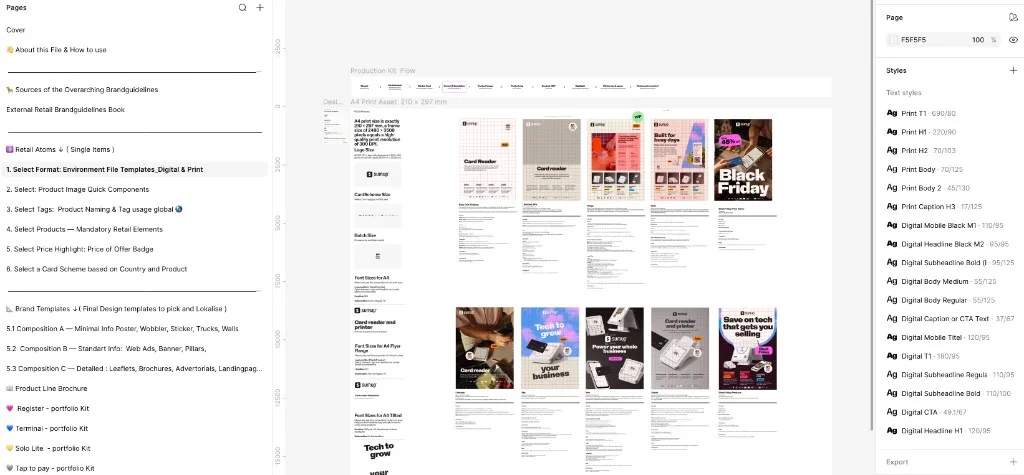
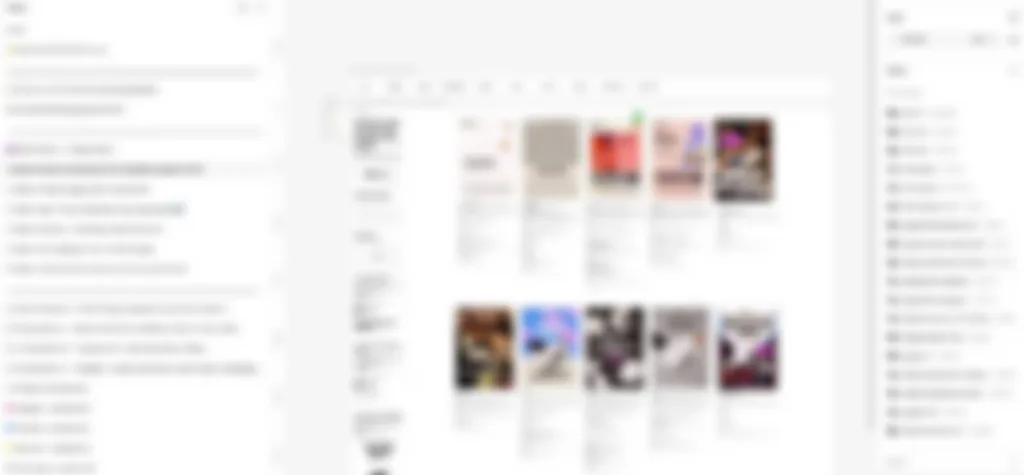
Ship SumUp collage polish with soft-blurred guidelines after the kit.

diff --git a/src/pages/DesktopCaseView.jsx b/src/pages/DesktopCaseView.jsx
@@ -17,7 +17,7 @@ const DesktopCaseView = ({ caseItem }) => {
   const [imageTitleColors, setImageTitleColors] = useState({});
   const IMAGE_WIDTHS = { landscape: 420, portrait: 280, square: 360 };
   const IMAGE_HEIGHTS = { landscape: 294, portrait: 400, square: 360 }; // 10:7 / 7:10 / 1:1
-  const MAX_IMAGE_WIDTH = 420;
+  const MAX_IMAGE_WIDTH = 500; // room for slightly larger video tiles
   const [viewportSize, setViewportSize] = useState({ width: window.innerWidth, height: window.innerHeight });
 
   const toggleScale = (imageId) => {
@@ -49,20 +49,36 @@ const DesktopCaseView = ({ caseItem }) => {
     };
   }, [isDesktop]);
 
+  // Canonical media order (for titles) — videos last
+  const canonicalMedia = useMemo(() => ([
+    caseItem.introImage,
+    caseItem.hideDesktopHero ? null : caseItem.image,
+    caseItem.detailImage1, caseItem.detailImage2, caseItem.detailImage3,
+    caseItem.detailImage4, caseItem.detailImage5, caseItem.detailImage6,
+    caseItem.detailImage7, caseItem.detailImage8, caseItem.detailImage9,
+    caseItem.detailImage10, caseItem.detailImage11, caseItem.detailImage12,
+    caseItem.detailImage13, caseItem.detailImage14, caseItem.detailImage15,
+    caseItem.detailImage16, caseItem.detailImage17, caseItem.detailImage18,
+    caseItem.detailImage19, caseItem.detailImage20,
+    caseItem.detailVideo1, caseItem.detailVideo2
+  ].filter(Boolean)), [caseItem]);
+
+  // Collage order — optional early video so it isn't buried under later cards
   const allImages = useMemo(() => {
-    return [
-      caseItem.introImage,
-      caseItem.hideDesktopHero ? null : caseItem.image,
-      caseItem.detailImage1, caseItem.detailImage2, caseItem.detailImage3,
-      caseItem.detailImage4, caseItem.detailImage5, caseItem.detailImage6,
-      caseItem.detailImage7, caseItem.detailImage8, caseItem.detailImage9,
-      caseItem.detailImage10, caseItem.detailImage11, caseItem.detailImage12,
-      caseItem.detailImage13, caseItem.detailImage14, caseItem.detailImage15,
-      caseItem.detailImage16, caseItem.detailImage17, caseItem.detailImage18,
-      caseItem.detailImage19, caseItem.detailImage20,
-      caseItem.detailVideo1, caseItem.detailVideo2
-    ].filter(Boolean);
-  }, [caseItem]);
+    if (!caseItem.desktopVideoEarly || !caseItem.detailVideo1) return canonicalMedia;
+    const stills = canonicalMedia.filter((url) => !/\.(mp4|mov|webm)$/i.test(url));
+    const videos = canonicalMedia.filter((url) => /\.(mp4|mov|webm)$/i.test(url));
+    if (!stills.length || !videos.length) return canonicalMedia;
+    return [stills[0], videos[0], ...stills.slice(1), ...videos.slice(1)];
+  }, [caseItem.desktopVideoEarly, caseItem.detailVideo1, canonicalMedia]);
+
+  const titleByUrl = useMemo(() => {
+    const map = {};
+    canonicalMedia.forEach((url, i) => {
+      if (caseItem.imageTitles?.[i]) map[url] = caseItem.imageTitles[i];
+    });
+    return map;
+  }, [canonicalMedia, caseItem.imageTitles]);
 
   const grid = useMemo(() => {
     const containerWidth = Math.min(1800, viewportSize.width - 96);
@@ -74,48 +90,45 @@ const DesktopCaseView = ({ caseItem }) => {
   const colX = (col) => grid.containerLeft + grid.colWidth * (col - 1);
 
   const layoutConfig = useMemo(() => {
-    const startY = 180;
-    // Keep the collage clustered toward centre on typical desktop widths (e.g. 1440)
-    const cols = allImages.length <= 4 ? [3, 5, 7] : [2, 5, 8];
-    const yOffsets = allImages.length <= 4 ? [-10, -40, 20] : [-20, -120, 100];
+    const startY = 150;
+    const many = allImages.length > 4;
+    // Balanced triad — overlap without extreme scatter
+    const cols = many ? [2, 5.25, 8.5] : [3, 5.5, 8];
+    const yOffsets = many ? [24, -40, 48] : [12, -28, 32];
     const imageRows = Math.ceil(allImages.length / 3);
-    const rowGap = imageRows <= 1 ? 460 : imageRows === 2 ? 540 : 620;
-    return { startY, cols, yOffsets, rowGap };
+    // Extra air between rows so text cards stay readable
+    const rowGap = imageRows <= 1 ? 520 : imageRows === 2 ? 640 : 720;
+    return { startY, cols, yOffsets, rowGap, imageRows };
   }, [allImages.length]);
 
-  // Cards in front, lightly overlapping (~10% of image height) near the collage centre
   const CARD_WIDTH = 340;
   const APPROX_IMAGE_H = 360;
-  const OVERLAP = 0.1;
 
   const getRowCardY = (row) => {
-    const { startY, rowGap, yOffsets } = layoutConfig;
-    const rowBase = startY + row * rowGap;
-    const imageBottom = rowBase + Math.max(...yOffsets) + APPROX_IMAGE_H;
-    return imageBottom - APPROX_IMAGE_H * OVERLAP;
+    const { startY, rowGap } = layoutConfig;
+    // Sit in the lower band of each image row — overlapping, still legible
+    return startY + row * rowGap + APPROX_IMAGE_H * 0.52;
   };
 
-  // 1. TEXT CARDS — centred in the composition (not pinned to far edges)
+  // 1. TEXT CARDS — paired over image rows; trailing copy sits just under the last row
   const cardPositions = useMemo(() => {
-    const leftX = colX(allImages.length <= 4 ? 3 : 2);
-    const rightX = colX(allImages.length <= 4 ? 7 : 8);
+    const many = allImages.length > 4;
+    const leftX = colX(many ? 3.1 : 3.4);
+    const rightX = colX(many ? 7.1 : 6.8);
     const maxX = grid.containerLeft + grid.containerWidth - CARD_WIDTH;
     const clampX = (x) => Math.max(grid.containerLeft, Math.min(x, maxX));
-
-    const zigzagOffset = (row, side) => {
-      const base = row % 2 === 0 ? 0 : 24;
-      const sideNudge = side === 'left' ? 0 : 28;
-      return base + sideNudge;
-    };
+    const lastRow = Math.max(0, layoutConfig.imageRows - 1);
+    const nudge = (row, side) => (side === 'left' ? -8 : 12) + (row % 2) * 14;
 
     return {
-      projectInfo: { x: clampX(leftX), y: getRowCardY(0) + zigzagOffset(0, 'left') },
-      challenge:   { x: clampX(rightX), y: getRowCardY(0) + zigzagOffset(0, 'right') },
-      process:     { x: clampX(leftX), y: getRowCardY(1) + zigzagOffset(1, 'left') },
-      impact:      { x: clampX(rightX), y: getRowCardY(1) + zigzagOffset(1, 'right') },
-      outcome:     { x: clampX(leftX), y: getRowCardY(2) + zigzagOffset(2, 'left') },
-      learning:    { x: clampX(rightX), y: getRowCardY(2) + zigzagOffset(2, 'right') },
-      offer:       { x: clampX(leftX), y: getRowCardY(3) + zigzagOffset(3, 'left') }
+      projectInfo: { x: clampX(leftX), y: getRowCardY(0) + nudge(0, 'left') },
+      challenge:   { x: clampX(rightX), y: getRowCardY(0) + nudge(0, 'right') },
+      process:     { x: clampX(leftX), y: getRowCardY(Math.min(1, lastRow)) + nudge(1, 'left') },
+      impact:      { x: clampX(rightX), y: getRowCardY(Math.min(1, lastRow)) + nudge(1, 'right') },
+      // Learning / outcome sit clearly below the last media row so they aren't buried
+      outcome:     { x: clampX(leftX), y: getRowCardY(lastRow) + 260 + nudge(2, 'left') },
+      learning:    { x: clampX(rightX), y: getRowCardY(lastRow) + 260 + nudge(2, 'right') },
+      offer:       { x: clampX(leftX), y: getRowCardY(lastRow) + 480 + nudge(3, 'left') }
     };
   }, [grid, layoutConfig, allImages.length]);
 
@@ -134,7 +147,7 @@ const DesktopCaseView = ({ caseItem }) => {
   const usesContain = (url) =>
     Boolean(url && caseItem.containImages?.includes(url));
 
-  // 2. BILDER-POSITIONEN
+  // 2. IMAGE POSITIONS — soft staircase; odd rows gently mirrored for balance
   const initialPositions = useMemo(() => {
     const imageCount = allImages.length;
     const positions = [];
@@ -143,16 +156,16 @@ const DesktopCaseView = ({ caseItem }) => {
     for (let i = 0; i < imageCount; i++) {
       const row = Math.floor(i / 3);
       const slot = i % 3;
-      const overlapY = slot === 1 ? -40 : slot === 2 ? -10 : 0;
-      const rawX = colX(cols[slot]);
-      const rawY = startY + row * rowGap + yOffsets[slot] + overlapY;
+      const mirrored = row % 2 === 1;
+      const colSlot = mirrored ? 2 - slot : slot;
+      const yScale = mirrored ? -0.55 : 1;
+      const overlapY = colSlot === 1 ? -20 : colSlot === 2 ? 12 : 0;
+      const rawX = colX(cols[colSlot]);
+      const rawY = startY + row * rowGap + yOffsets[colSlot] * yScale + overlapY;
       const maxX = grid.containerLeft + grid.containerWidth - MAX_IMAGE_WIDTH;
       const clampedX = Math.max(grid.containerLeft, Math.min(rawX, maxX));
       const clampedY = Math.max(60, rawY);
-      positions.push({
-        x: clampedX,
-        y: clampedY
-      });
+      positions.push({ x: clampedX, y: clampedY });
     }
     return positions;
   }, [allImages, colX, layoutConfig, grid]);
@@ -176,7 +189,7 @@ const DesktopCaseView = ({ caseItem }) => {
       cardPositions.learning.y,
       cardPositions.offer.y
     );
-    return Math.max(imageLastY + 900, cardLastY + 800, viewportSize.height + 400);
+    return Math.max(imageLastY + 1100, cardLastY + 900, viewportSize.height + 400);
   }, [initialPositions, cardPositions, outcomePosition, viewportSize.height]);
 
   useEffect(() => {
@@ -228,18 +241,26 @@ const DesktopCaseView = ({ caseItem }) => {
   }, [allImages, caseItem.forceSquareImages, caseItem.darkImages, caseItem.lightTitleImages]);
 
   const getImageSize = (index, format) => {
+    const url = allImages[index] || '';
+    const isVideo = /\.(mp4|mov|webm)$/i.test(url);
     const ratio = imageAspects[index];
     if (ratio) {
-      const width = ratio >= 1 ? IMAGE_WIDTHS.landscape : IMAGE_WIDTHS.portrait;
+      const base = ratio >= 1 ? IMAGE_WIDTHS.landscape : IMAGE_WIDTHS.portrait;
+      // Slightly larger video so it doesn't disappear in the collage
+      const width = isVideo ? Math.round(base * 1.18) : base;
       return { width, height: Math.round(width / ratio) };
     }
+    const width = isVideo
+      ? Math.round((IMAGE_WIDTHS[format] || IMAGE_WIDTHS.landscape) * 1.18)
+      : (IMAGE_WIDTHS[format] || IMAGE_WIDTHS.landscape);
     return {
-      width: IMAGE_WIDTHS[format] || IMAGE_WIDTHS.landscape,
+      width,
       height: IMAGE_HEIGHTS[format] || IMAGE_HEIGHTS.landscape,
     };
   };
 
   const getImageTitle = (url, index) => {
+    if (titleByUrl[url]) return titleByUrl[url];
     if (caseItem.imageTitles?.[index]) return caseItem.imageTitles[index];
     const filename = url.split('/').pop()?.split('.')[0] || '';
     return filename.replace(/[-_]/g, ' ').toUpperCase();
@@ -281,7 +302,7 @@ const DesktopCaseView = ({ caseItem }) => {
                 onClick={() => toggleScale(mediaId)}
                 className="absolute z-10 group cursor-grab active:cursor-grabbing"
                 style={{ width: `${mediaWidth}px` }} 
-                animate={{ scale: isScaled ? 1.8 : 1, zIndex: isScaled ? 100 : 10 }}
+                animate={{ scale: isScaled ? 1.8 : 1, zIndex: isScaled ? 100 : 10 + index }}
                 transition={{ type: "spring", stiffness: 300, damping: 30 }}
               >
                 <div className="relative w-full shadow-2xl overflow-hidden bg-black/5">

diff --git a/src/pages/MobileCaseView.jsx b/src/pages/MobileCaseView.jsx
@@ -336,14 +336,14 @@ const MobileCaseView = ({ caseItem }) => {
               {renderMedia(caseItem.detailImage1, "Hierarchy", "")}
             </FadeUp>
           )}
-          {caseItem.mobileVideoFirst && caseItem.detailImage3 && (
-            <FadeUp className="space-y-[0.1875rem] snap-start">
-              {renderMedia(caseItem.detailImage3, "Leaflet", "")}
-            </FadeUp>
-          )}
           {caseItem.mobileVideoFirst && caseItem.detailImage4 && (
             <FadeUp className="space-y-[0.1875rem] snap-start">
-              {renderMedia(caseItem.detailImage4, "Product Range Packaging Differentiation", "")}
+              {renderMedia(caseItem.detailImage4, "Leaflet", "")}
+            </FadeUp>
+          )}
+          {caseItem.mobileVideoFirst && caseItem.detailImage5 && (
+            <FadeUp className="space-y-[0.1875rem] snap-start">
+              {renderMedia(caseItem.detailImage5, "Product Range Packaging Differentiation", "")}
             </FadeUp>
           )}
 
@@ -394,10 +394,15 @@ const MobileCaseView = ({ caseItem }) => {
             </FadeUp>
           )}
 
-          {/* SumUp: guidelines after Approach; retail system follows later (detailImage5) */}
+          {/* SumUp: Production Kit → Brand guidelines after Approach */}
           {caseItem.mobileVideoFirst && caseItem.detailImage2 && (
             <FadeUp className="space-y-[0.1875rem] snap-start">
-              {renderMedia(caseItem.detailImage2, "Guidelines", "")}
+              {renderMedia(caseItem.detailImage2, "Production Kit", "")}
+            </FadeUp>
+          )}
+          {caseItem.mobileVideoFirst && caseItem.detailImage3 && (
+            <FadeUp className="space-y-[0.1875rem] snap-start">
+              {renderMedia(caseItem.detailImage3, "Brand guidelines", "")}
             </FadeUp>
           )}
 
@@ -431,9 +436,16 @@ const MobileCaseView = ({ caseItem }) => {
               {renderMedia(caseItem.detailImage4, "Process Detail", "")}
             </FadeUp>
           )}
-          {caseItem.detailImage5 && caseItem.id !== 6 && (
+          {caseItem.detailImage5 && caseItem.id !== 6 && !caseItem.mobileVideoFirst && (
             <FadeUp className="space-y-[0.1875rem] snap-start">
               {renderMedia(caseItem.detailImage5, "Detail", "")}
+            </FadeUp>
+          )}
+
+          {/* SumUp: digital brand pages overview after Impact */}
+          {caseItem.mobileVideoFirst && caseItem.detailImage6 && (
+            <FadeUp className="space-y-[0.1875rem] snap-start">
+              {renderMedia(caseItem.detailImage6, "Digital brand pages — overview", "")}
             </FadeUp>
           )}
 
@@ -468,7 +480,7 @@ const MobileCaseView = ({ caseItem }) => {
               {renderMedia(caseItem.detailImage2, "Final Outcome", "shadow-lg")}
             </FadeUp>
           )}
-          {caseItem.id !== 6 && caseItem.id !== 3 && caseItem.detailImage6 && (
+          {caseItem.id !== 6 && caseItem.id !== 3 && caseItem.detailImage6 && !caseItem.mobileVideoFirst && (
             <FadeUp className="space-y-[0.1875rem] snap-start">
               {renderMedia(caseItem.detailImage6, "Final Outcome", "shadow-lg")}
             </FadeUp>

diff --git a/src/data/cases.js b/src/data/cases.js
@@ -15,20 +15,23 @@ export const cases = [
     learning: "A first drop should lock the language, not freeze the brand.",
     image: "/images/02_sumup-retail-rebrand/sumup-teaser-register.webp",
     mobileImage: "/images/02_sumup-retail-rebrand/sumup-teaser-register.webp",
-    // Mobile after teaser: video → challenge → hierarchy → leaflet → packaging → approach → guidelines → system
+    // Mobile: video → challenge → hierarchy → leaflet → range → approach → kit → brand guidelines → digital pages overview
     detailImage1: "/images/02_sumup-retail-rebrand/sumup-colour-hierarchy-blurred.webp",
     detailImage2: "/images/02_sumup-retail-rebrand/sumup-retail-brand-guidelines.webp",
-    detailImage3: "/images/02_sumup-retail-rebrand/sumup-register-leaflet.webp",
-    detailImage4: "/images/02_sumup-retail-rebrand/sumup-range.webp",
-    detailImage5: "/images/02_sumup-retail-rebrand/sumup-digital-retail-system.webp",
+    detailImage3: "/images/02_sumup-retail-rebrand/sumup-brand-guidelines.webp",
+    detailImage4: "/images/02_sumup-retail-rebrand/sumup-register-leaflet.webp",
+    detailImage5: "/images/02_sumup-retail-rebrand/sumup-range.webp",
+    detailImage6: "/images/02_sumup-retail-rebrand/sumup-digital-retail-system.webp",
     detailVideo1: "/images/02_sumup-retail-rebrand/sumup-amazon-storefront-loop.mp4",
     detailVideo1Poster: "/images/02_sumup-retail-rebrand/sumup-amazon-storefront-poster.webp",
     // Teaser Register is header/slider only — not repeated in desktop collage
     hideDesktopHero: true,
     mobileVideoFirst: true,
+    desktopVideoEarly: true,
     lightTitleImages: [
       "/images/02_sumup-retail-rebrand/sumup-retail-brand-guidelines.webp",
       "/images/02_sumup-retail-rebrand/sumup-digital-retail-system.webp",
+      "/images/02_sumup-retail-rebrand/sumup-brand-guidelines.webp",
     ],
     // Keep collage card sizes; show full media inside (no crop)
     containImages: [
@@ -38,13 +41,15 @@ export const cases = [
       "/images/02_sumup-retail-rebrand/sumup-amazon-storefront-loop.mp4",
       "/images/02_sumup-retail-rebrand/sumup-register-leaflet.webp",
       "/images/02_sumup-retail-rebrand/sumup-range.webp",
+      "/images/02_sumup-retail-rebrand/sumup-brand-guidelines.webp",
     ],
     imageTitles: [
       'Colour hierarchy — WIP',
       'Retail brand guidelines — Production Kit',
+      'Brand guidelines',
       'Register leaflet',
       'Product Range Packaging Differentiation',
-      'Digital and Print — Retail System',
+      'Digital brand pages — overview',
       'Amazon storefront',
     ],
     team: {
